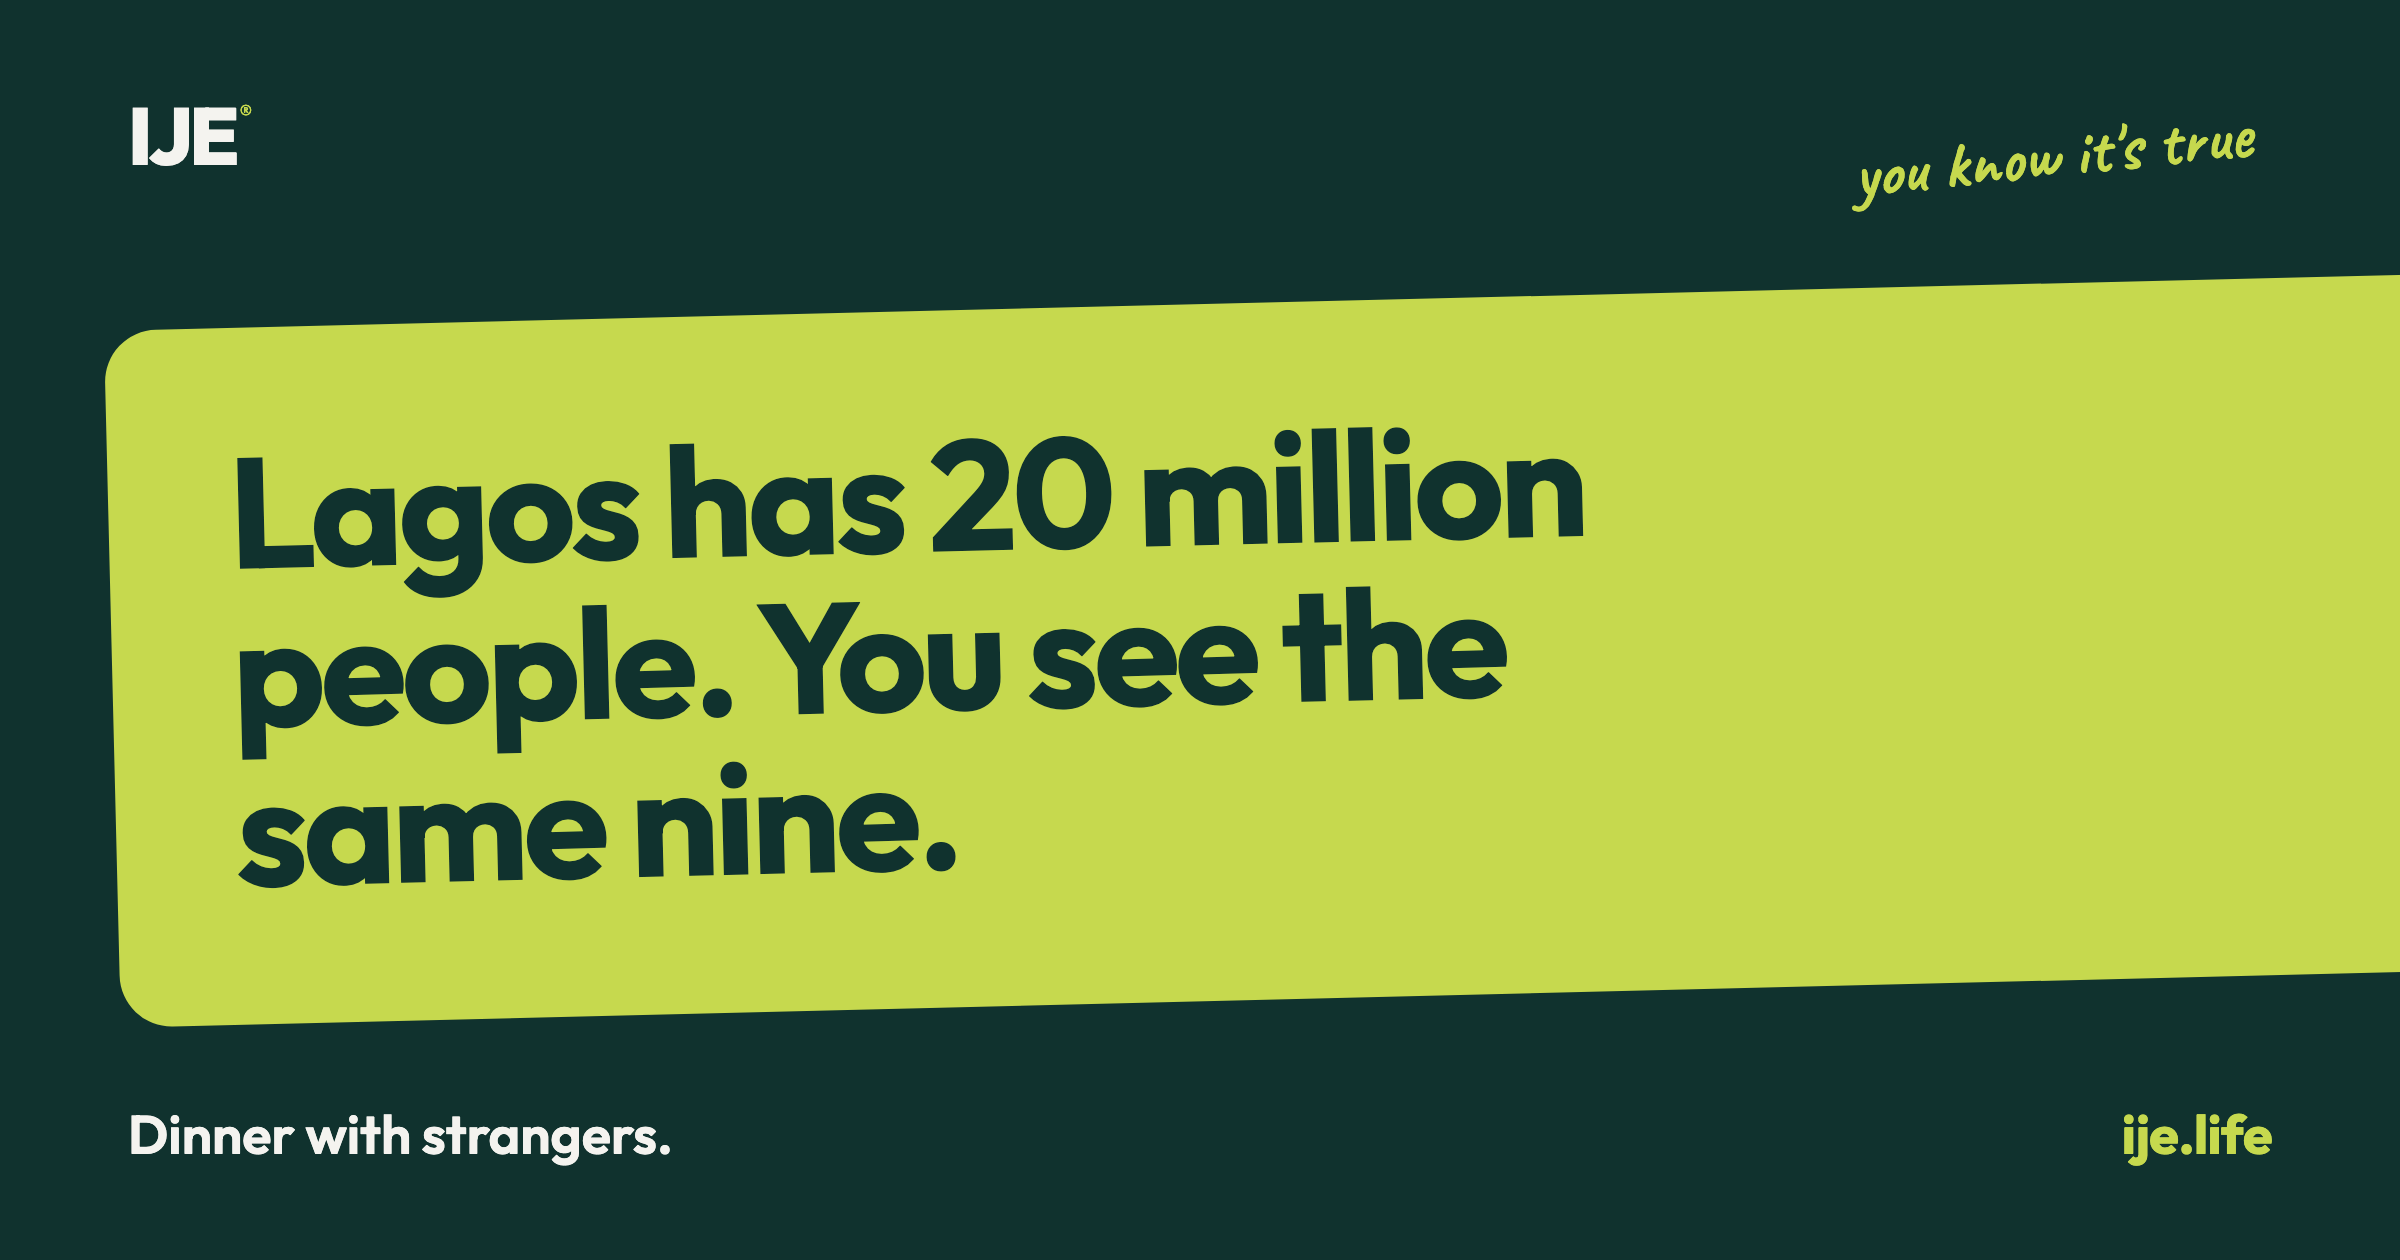
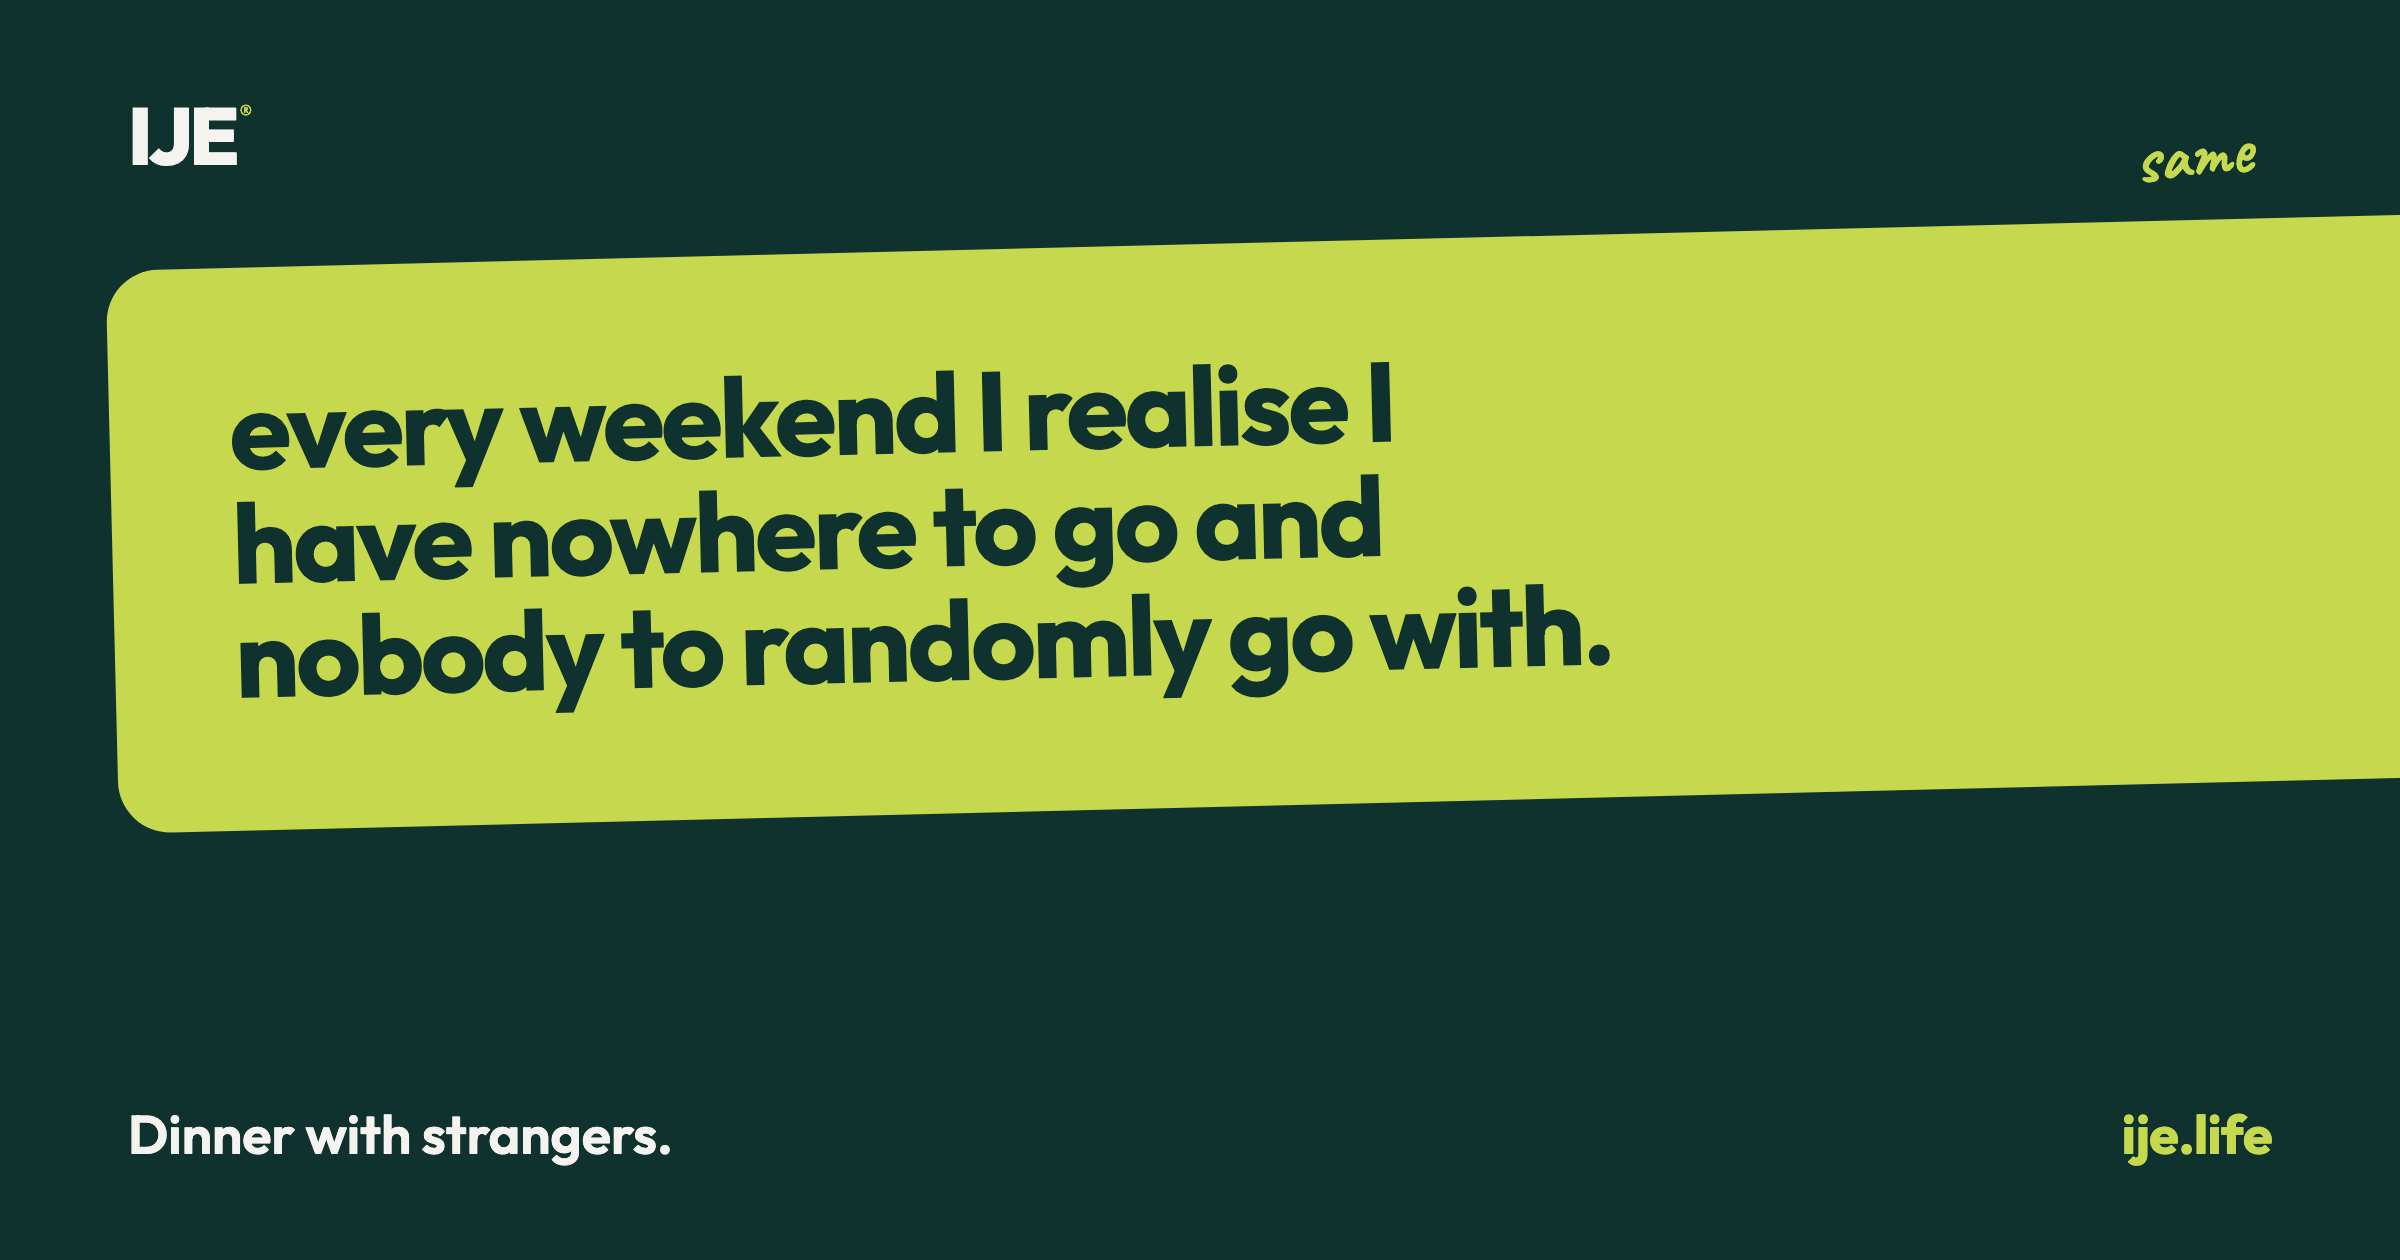
Move the emotional core into first person
The slab was a clever outside observation ('Lagos has 20 million
people. You see the same nine.') which points at the reader. Replaced
with the ache said in their own voice, and the scribble reply is now
'same' rather than the brand insisting 'you know it's true'.

Share card regenerated to match.

Changed region(s): [[0.0312, 0.2786, 1.0, 0.8357], [0.0312, 0.0929, 1.0, 0.2786]]

diff --git a/og-source.html b/og-source.html
@@ -9,10 +9,10 @@
   /* the page's bleeding lime slab, cropped by the frame the same way */
   /* bleeds off the right edge only, same as the page. left corners stay visible
      or it stops reading as a card and turns into a stripe. */
-  .slab{position:absolute;left:56px;top:150px;right:-120px;background:var(--lime);
+  .slab{position:absolute;left:56px;top:120px;right:-120px;background:var(--lime);
     border-radius:26px;transform:rotate(-1.4deg);padding:52px 60px 58px}
-  .slab q{quotes:none;display:block;color:var(--green);font-weight:700;font-size:78px;
-    line-height:1.02;letter-spacing:-.028em;max-width:15ch}
+  .slab q{quotes:none;display:block;color:var(--green);font-weight:700;font-size:56px;
+    line-height:1.02;letter-spacing:-.028em;max-width:19ch}
   .mark{position:absolute;left:64px;top:48px;display:inline-flex;align-items:flex-start;
     font-weight:800;font-size:40px;letter-spacing:-.045em;line-height:1;color:var(--ground)}
   .mark sup{font-size:.30em;font-weight:600;line-height:1;margin-top:.20em;margin-left:.14em;
@@ -26,8 +26,8 @@
 </style></head>
 <body>
   <span class="mark">IJE<sup>&reg;</sup></span>
-  <span class="hand">you know it's true</span>
-  <div class="slab"><q>Lagos has 20 million people. You see the same nine.</q></div>
+  <span class="hand">same</span>
+  <div class="slab"><q>every weekend I realise I have nowhere to go and nobody to randomly go with.</q></div>
   <div class="foot">
     <span class="a">Dinner with strangers.</span>
     <span class="b">ije.life</span>

diff --git a/index.html b/index.html
@@ -12,7 +12,7 @@
 <meta property="og:image" content="https://ije.life/og.png">
 <meta property="og:image:width" content="2400">
 <meta property="og:image:height" content="1260">
-<meta property="og:image:alt" content="Lagos has 20 million people. You see the same nine.">
+<meta property="og:image:alt" content="every weekend I realise I have nowhere to go and nobody to randomly go with.">
 <meta name="twitter:card" content="summary_large_image">
 <link href="https://fonts.googleapis.com/css2?family=Outfit:wght@400;500;600;700;800&family=Caveat:wght@500;600&display=swap" rel="stylesheet">
 <style>
@@ -247,12 +247,12 @@
   <!-- the reason before the reassurance: land the ache first, then remove friction -->
   <section class="shout">
     <div class="slab">
-      <q>Lagos has 20 million people. You see the same nine.</q>
-      <div class="who">Friday, we introduce you to five of them.</div>
+      <q>every weekend I realise I have nowhere to go and nobody to randomly go with.</q>
+      <div class="who">So we made somewhere to go.</div>
     </div>
     <div class="scribble" aria-hidden="true">
       <svg viewBox="0 0 56 40"><path d="M4 4 C22 2 40 12 48 30"/><path d="M40 27 L49 32 L44 22"/></svg>
-      <span>you know it's true</span>
+      <span>same</span>
     </div>
   </section>
 
